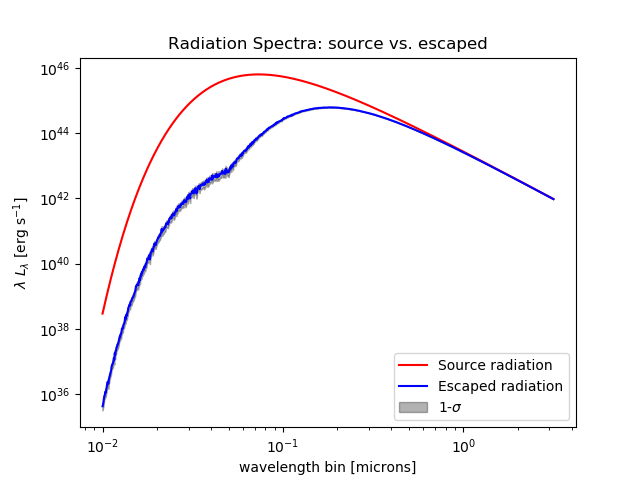
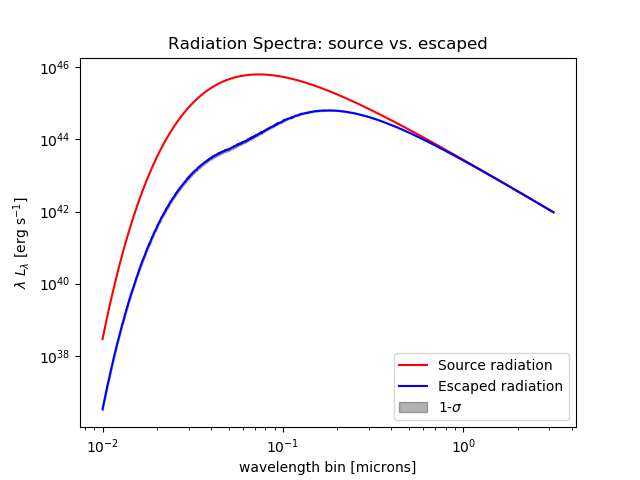
added get_alt_super_f_esc() as full re-sampling of entire runs

diff --git a/sim.py b/sim.py
@@ -79,10 +79,53 @@ def get_super_f_esc():
 
         sample = []
         for j in range(100):
-            sample.append(np.mean(np.random.choice(f_super,size=100,replace=False)))
+            sample.append(np.mean(np.random.choice(f_super,size=100,replace=True)))
 
         f_esc[i] = np.mean(sample)
         f_esc_err[i] = np.std(sample)
+
+    return wavelengths, f_esc, f_esc_err, len(simruns)
+
+
+def get_alt_super_f_esc():
+    #re-sampling ALL the runs to beat down the error
+    wavelengths = np.load("run_data/wavelengths.npy")
+
+    simruns = glob.glob("run_data/simrun_*.npy")
+    sims = []
+    for s in simruns:
+        try:
+            f_esc = np.load(s)
+            sims.append(f_esc)
+        except:
+            pass
+
+    f_esc = np.zeros(len(wavelengths))
+    f_esc_err = np.zeros(len(wavelengths))
+
+    sims = np.array(sims)
+
+    for i in range(len(wavelengths)):
+        progress_bar(float(i) / len(wavelengths))
+        f_super = sims[:,i] #1000 entries
+        #turn the 1000 into 100,000 photon results
+
+        p_super = np.zeros((100*len(f_super)))
+        for j in range(len(f_super)):
+            escape = int(f_super[j] * 100.)
+            p_super[j*100:j*100+escape+1] = 1 #since this is going to be randomly re-sampled below it
+                                              #is okay to just group this way
+
+        sample = []
+        for j in range(100): #the loop is like the replacement part
+            re_sample = np.random.choice(p_super,size=10000,replace=False)
+            escape = float(np.sum(re_sample))/float(len(re_sample)) #out of 10,000 photons, this is the escape fraction
+            sample.append(escape)
+
+        f_esc[i] = np.mean(sample)
+        f_esc_err[i] = np.std(sample)
+
+    print("\n")
 
     return wavelengths, f_esc, f_esc_err, len(simruns)
 
@@ -183,7 +226,7 @@ def run_sim():
     np.save("simrun_%d" %next_run_id, f_esc)
 
 def main():
-    wavelengths, f_esc, f_esc_err, count = get_super_f_esc()
+    wavelengths, f_esc, f_esc_err, count = get_alt_super_f_esc()
 
     f_esc_high = f_esc + f_esc_err
     f_esc_low = f_esc-f_esc_err
@@ -211,23 +254,23 @@ def main():
 
 
 
-    plt.close('all')
-
-    mx = np.max(L_lambd_source)
-    plt.title("Radiation Spectra: source vs. escaped (zoom and scaled)")
-    plt.plot(wavelengths, wavelengths * L_lambd_source/mx, label="Source radiation", color='r')
-    plt.plot(wavelengths, wavelengths * L_lambd_out/mx * 100, label="Escaped radiation x100", color='b')
-    plt.axvline(0.05,label="~0.20 constant absorption")
-
-    plt.legend()
-    #plt.yscale('log')
-    #plt.xscale('log')
-    plt.ylim(0,0.1)
-    plt.xlim(0.03,0.07)
-    plt.xlabel("wavelength bin [microns]")
-    plt.ylabel(r"Dimensionless Lum (scaled at $\lambda_{max}$)")
-    plt.savefig("spectrum_zoom.png")
-    plt.show()
+    # plt.close('all')
+    #
+    # mx = np.max(L_lambd_source)
+    # plt.title("Radiation Spectra: source vs. escaped (zoom and scaled)")
+    # plt.plot(wavelengths, wavelengths * L_lambd_source/mx, label="Source radiation", color='r')
+    # plt.plot(wavelengths, wavelengths * L_lambd_out/mx * 100, label="Escaped radiation x100", color='b')
+    # plt.axvline(0.05,label="~0.20 constant absorption")
+    #
+    # plt.legend()
+    # #plt.yscale('log')
+    # #plt.xscale('log')
+    # plt.ylim(0,0.1)
+    # plt.xlim(0.03,0.07)
+    # plt.xlabel("wavelength bin [microns]")
+    # plt.ylabel(r"Dimensionless Lum (scaled at $\lambda_{max}$)")
+    # plt.savefig("spectrum_zoom.png")
+    # plt.show()
 
 
 if __name__ == '__main__':
